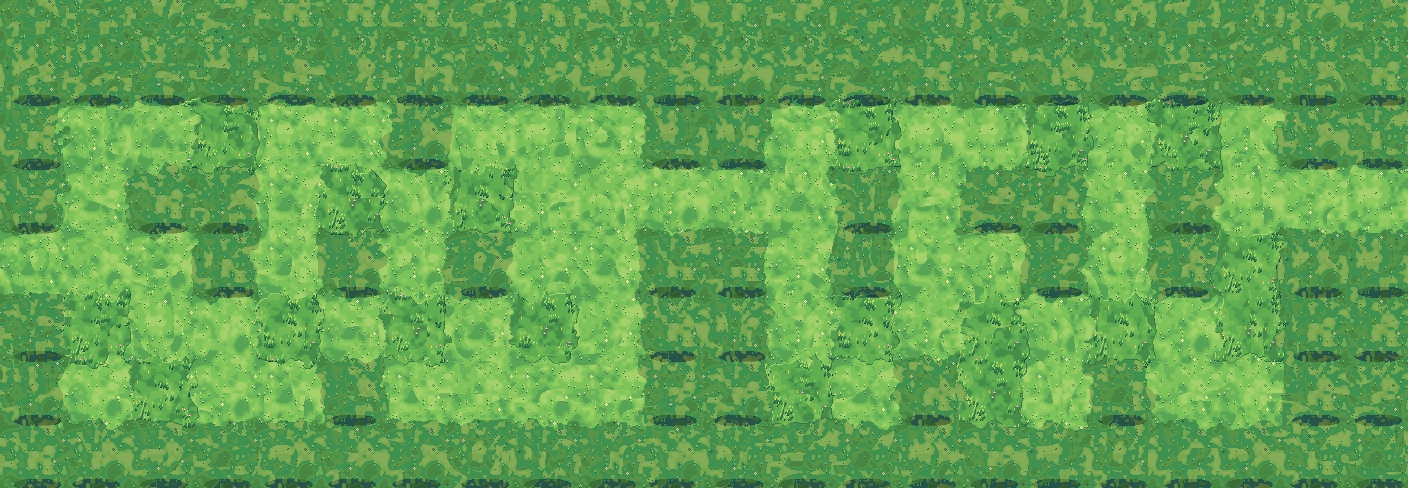
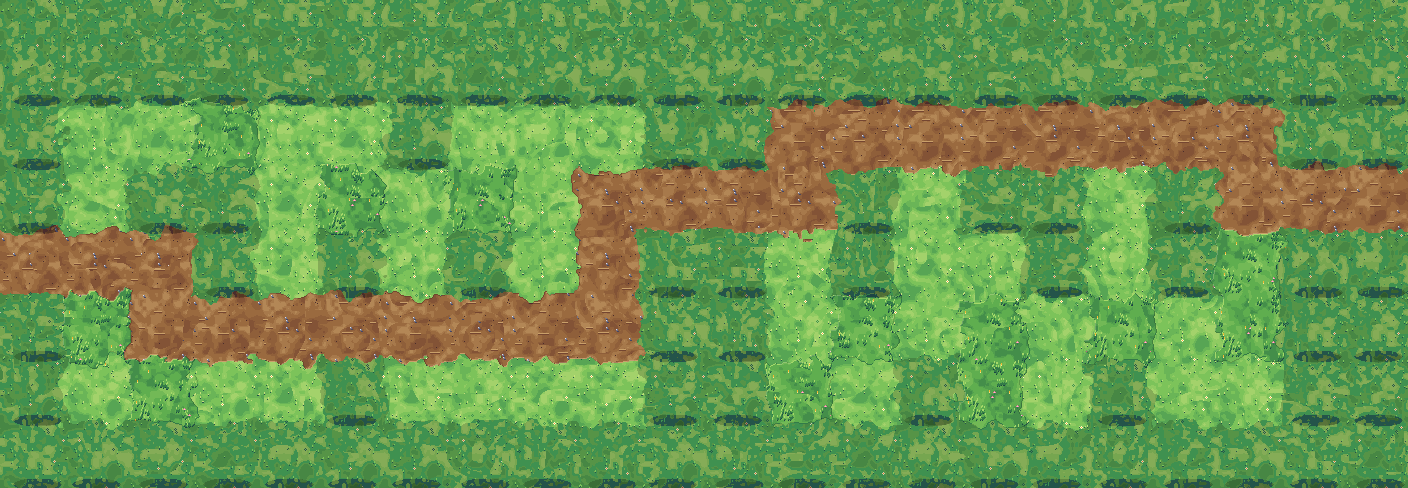
Trail map pilot: worn path and named-feature landmarks on route 228
Adds a 'p' (path) tile type to the terrain layer, six landmark sprites in gen2,
a landmarks data file, and --route=N to bake_trail_art.py. Only route 228 is
re-baked; other routes are unchanged.

Claude-Session: https://claude.ai/code/session_01PZZqg9J4gTioHVim7F5x1u

Changed region(s): [[0.0, 0.1844, 1.0, 0.7684]]

diff --git a/claude/tile-art-v3-proposal/gen2.py b/claude/tile-art-v3-proposal/gen2.py
@@ -164,6 +164,18 @@ def ground(land, kind, seed):
             cv.put(x, y, R[2], True); cv.put(x + 2, y + 3, R[2], True)
     return cv.im
 
+PATH_RAMP = {"grassland": "litter", "forest": "litter", "coast": "sand", "tundra": "snow"}
+def pathtex(land, seed):
+    """Worn path ground ('p' tiles): packed dirt in the land's own colour, ruts and pebbles; tileable like the rest."""
+    rnd = random.Random(f"p2{land}{seed}"); R = RAMP[PATH_RAMP.get(land, "litter")]
+    cv = ground_base(rnd, R, bias=.0)
+    for x, y in spots(rnd, 5):   # cart-rut dashes: lit crest over a shade line
+        n = rnd.randint(6, 12)
+        for k in range(n): cv.put(x + k, y, R[0], True); cv.put(x + k, y + 1, R[2], True)
+    for x, y in spots(rnd, 6): pebble(cv, x, y, RAMP["stone"], rnd, 2)
+    for x, y in spots(rnd, 14): cv.put(x, y, R[3], True)
+    return cv.im
+
 def understory(land, seed):
     rnd = random.Random(f"u2{land}{seed}"); src = ground(land, "floor", seed).copy(); p = src.load()
     for y in range(T):
@@ -324,6 +336,101 @@ def water(land, seed):
             for k in range(9): cv.put(x + k, y + (k * 2 // 3) % 4, R[3], True)
     return cv.im
 
+# ---------------------------------------------------------------- landmarks: one named feature of a route, drawn as a raised sprite (64 x 96, feet near y 88)
+def _col(cv, x0, x1, y0, y1, R, rnd, speck=.08):
+    """Rectangle shaded left (lit) to right (shade), with a little speckle."""
+    for x in range(x0, x1):
+        u = (x - x0) / max(1, x1 - x0 - 1); t = 0 if u < .15 else 1 if u < .4 else 2 if u < .72 else 3
+        for y in range(y0, y1):
+            tt = t
+            if rnd.random() < speck: tt = max(0, min(4, tt + rnd.choice((-1, 1))))
+            cv.put(x, y, R[tt])
+def _pond(cv, cx, cy, rx, ry, rnd, R=None):
+    R = R or r5(RAMP["sea"])
+    for y in range(cy - ry, cy + ry + 1):
+        for x in range(cx - rx, cx + rx + 1):
+            if (x - cx) ** 2 / rx ** 2 + (y - cy) ** 2 / ry ** 2 <= 1:
+                t = 2 if y > cy else 1 if y > cy - ry // 2 else 0
+                if (x * 5 + y * 3) % 9 == 0: t = max(0, t - 1)
+                cv.put(x, y, R[t])
+    for _ in range(4):
+        x, y = rnd.randint(cx - rx + 4, cx + rx - 8), rnd.randint(cy - ry + 2, cy + ry - 2)
+        for k in range(4):
+            if cv.get(x + k, y)[3]: cv.put(x + k, y, R[0])
+def lm_scarecrow(rnd, cv):
+    W = RAMP["wood"]
+    for y in range(36, 90): cv.put(31, y, W[1]); cv.put(32, y, W[2]); cv.put(33, y, W[3])
+    for x in range(12, 53): cv.put(x, 51, W[1]); cv.put(x, 52, W[2]); cv.put(x, 53, W[3])
+    for x0 in (10, 48):   # straw hands
+        for k in range(5): cv.put(x0 + k, 50 + k % 2, RAMP["sand"][k % 3]); cv.put(x0 + k, 54 - k % 3, RAMP["sand"][1 + k % 2])
+    lump(cv, 32, 62, 10, 11, r5(RAMP["sea"]), rnd, .06)
+    for x, y in ((28, 60), (29, 60), (28, 61), (29, 61), (35, 66), (36, 66), (35, 67), (36, 67)):   # patches
+        cv.put(x, y, RAMP["ember"][1]); 
+    cv.put(28, 60, RAMP["ember"][0]); cv.put(35, 66, RAMP["ember"][0])
+    for x in range(22, 43): cv.put(x, 72, RAMP["sand"][1]); cv.put(x, 73, RAMP["sand"][2]) if x % 2 else None   # straw hem
+    lump(cv, 32, 41, 8, 8, r5(RAMP["sand"]), rnd, .08)
+    cv.put(29, 40, INK); cv.put(35, 40, INK); cv.put(29, 41, INK); cv.put(35, 41, INK)
+    for x in range(30, 35): cv.put(x, 46, RAMP["ember"][2]) if x % 2 else cv.put(x, 45, RAMP["ember"][2])
+    for x in range(19, 46):   # hat brim
+        for y in (33, 34): cv.put(x, y, W[1] if y == 33 else W[2])
+    lump(cv, 32, 29, 9, 8, r5(RAMP["wood"]), rnd, .06)
+    for x in range(23, 42): cv.put(x, 32, RAMP["petal"][1])   # ribbon
+    cv.put(40, 31, RAMP["gold"][0]); cv.put(41, 30, RAMP["gold"][1])
+def lm_haybales(rnd, cv):
+    for cx, cy, rx, ry in ((19, 79, 15, 10), (45, 79, 15, 10), (32, 61, 15, 11)):
+        lump(cv, cx, cy, rx, ry, r5(RAMP["gold"]), rnd, .16)
+        for k in (-8, -2, 5):   # twine
+            for y in range(cy - ry + 1, cy + ry):
+                if cv.get(cx + k, y)[3] and cv.get(cx + k, y) != INK: cv.put(cx + k, y, RAMP["wood"][2] if y % 2 else RAMP["wood"][1])
+        for _ in range(14):   # straw ends
+            x, y = rnd.randint(cx - rx + 2, cx + rx - 2), rnd.randint(cy - ry + 2, cy + ry - 2)
+            if cv.get(x, y)[3] and cv.get(x, y) != INK: cv.put(x, y, RAMP["gold"][0]); cv.put(x + 1, y + 1, RAMP["gold"][3])
+def lm_ford(rnd, cv):
+    _pond(cv, 32, 80, 30, 9, rnd)
+    for cx, cy in ((14, 78), (32, 83), (50, 77)):
+        lump(cv, cx, cy, 7, 4, r5(RAMP["stone"]), rnd, .1)
+        for k in range(-6, 7):   # foam ring
+            if cv.get(cx + k, cy + 5)[3] == 0 or cv.get(cx + k, cy + 5) in r5(RAMP["sea"]): cv.put(cx + k, cy + 5, CREAM)
+def lm_pondmill(rnd, cv):
+    _pond(cv, 24, 82, 22, 8, rnd)
+    W, C = r5(RAMP["wood"]), r5(RAMP["sand"])
+    _col(cv, 36, 58, 56, 86, C, rnd)
+    for y in range(40, 56):   # roof
+        hw = (y - 40) * 11 // 15 + 2
+        for x in range(47 - hw, 47 + hw + 1): cv.put(x, y, RAMP["ember"][0 if x < 44 else 1 if x < 50 else 2] if (y + x) % 7 else RAMP["ember"][3])
+    for y in range(70, 86): cv.put(46, y, W[3]); cv.put(47, y, W[3]); cv.put(48, y, W[3]); cv.put(49, y, W[2])   # door
+    for y in range(62, 67):
+        for x in range(40, 44): cv.put(x, y, RAMP["sea"][0] if y == 62 else RAMP["sea"][2])
+    for a in range(0, 360, 45):   # wheel
+        for r in range(0, 9): cv.put(30 + int(round(math.cos(math.radians(a)) * r)), 76 + int(round(math.sin(math.radians(a)) * r)), W[1] if a % 90 == 0 else W[2])
+    for a in range(0, 360, 12): cv.put(30 + int(round(math.cos(math.radians(a)) * 9)), 76 + int(round(math.sin(math.radians(a)) * 9)), W[3])
+    cv.put(30, 76, RAMP["gold"][1])
+def lm_apple(rnd, cv):
+    c = tree(2, "leaf"); cv.im.alpha_composite(c); cv.p = cv.im.load()
+    for _ in range(40):   # big red apples on the crown, so it reads as the apple tree and not one more tree
+        if sum(1 for q in cv.im.getdata() if q == RAMP["ember"][1]) > 14 * 6: break
+        x, y = rnd.randrange(12, 50), rnd.randrange(20, 60)
+        if all(cv.get(x + dx, y + dy)[3] and cv.get(x + dx, y + dy) != INK and cv.get(x + dx, y + dy) not in RAMP["wood"] for dx in range(3) for dy in range(3)):
+            for dx in range(3):
+                for dy in range(3): cv.put(x + dx, y + dy, RAMP["ember"][1] if dx + dy < 3 else RAMP["ember"][2])
+            cv.put(x, y, RAMP["ember"][0]); cv.put(x + 1, y - 1, RAMP["moss"][1])
+    for a in range(0, 360, 36):   # ring of clover round the foot
+        x, y = 32 + int(round(math.cos(math.radians(a)) * 26)), 87 + int(round(math.sin(math.radians(a)) * 5))
+        for dx, dy in ((0, 0), (1, 0), (-1, 0), (0, 1), (0, -1)): cv.put(x + dx, y + dy, RAMP["moss"][2] if (dx or dy) else RAMP["moss"][1])
+        if a % 72 == 0: cv.put(x, y, CREAM)
+    for k in range(4):   # fallen apples
+        x = 22 + k * 7; cv.put(x, 90, RAMP["ember"][1]); cv.put(x + 1, 90, RAMP["ember"][2])
+def lm_hedgerow(rnd, cv):
+    c = hedge(1); cv.im.alpha_composite(c); cv.p = cv.im.load()
+    for cx, cy, rx, ry in ((16, 52, 8, 9), (47, 55, 7, 7)):   # trimmed topiary, with strong opinions
+        lump(cv, cx, cy, rx, ry, r5(RAMP["moss"]), rnd, .1)
+        for y in range(cy + ry, 64): cv.put(cx, y, RAMP["wood"][2]); cv.put(cx + 1, y, RAMP["wood"][3])
+    cv.put(13, 50, INK); cv.put(18, 50, INK); cv.put(13, 51, CREAM); cv.put(18, 51, CREAM)   # a face on the big one
+    for x in range(14, 18): cv.put(x, 55, RAMP["ember"][2])
+LANDMARKS = {"scarecrow": lm_scarecrow, "haybales": lm_haybales, "ford": lm_ford, "pondmill": lm_pondmill, "apple": lm_apple, "hedgerow": lm_hedgerow}
+def landmark(name):
+    cv = Cv(T, OBJ_H); LANDMARKS[name](random.Random(f"lm{name}"), cv); outline(cv); return cv.im
+
 # ---------------------------------------------------------------- find spots (open / done) and the search icon
 def sparkle(cv, x, y, big=True):
     for dx, dy in ((0, 0), (1, 0), (-1, 0), (0, 1), (0, -1)): cv.put(x + dx, y + dy, CREAM)
@@ -482,7 +589,7 @@ def terrain_layer(land, types, seed=0, blend=True):
         v = int(nv(x, y) * 4.4) % 4   # which texture variant: big organic patches, so variants never meet on a tile line
         k = (t, v if t != "r" else v % 2, (tx * 3 + ty) % 3 if t == "w" else 0)
         if k not in tex:
-            im = understory(land, v) if t == "u" else ground(land, "rough", v % 2) if t == "r" else water(land, k[2]) if t == "w" else ground(land, "floor", v)
+            im = understory(land, v) if t == "u" else ground(land, "rough", v % 2) if t == "r" else water(land, k[2]) if t == "w" else pathtex(land, v % 2) if t == "p" else ground(land, "floor", v)
             tex[k] = im.load()
         return tex[k]
     def tp(x, y):
@@ -503,8 +610,11 @@ def terrain_layer(land, types, seed=0, blend=True):
             t = TM[y][x]
             def at(a, b): return TM[min(max(b, 0), th - 1)][min(max(a, 0), tw - 1)]
             if t == "r":
-                if at(x, y + 1) in "fuw" or at(x + 1, y) in "fuw": P[x, y] = darker(P[x, y], 1)
-                elif at(x, y - 1) in "fu" or at(x - 1, y) in "fu": P[x, y] = lighter(P[x, y])
+                if at(x, y + 1) in "fupw" or at(x + 1, y) in "fupw": P[x, y] = darker(P[x, y], 1)
+                elif at(x, y - 1) in "fup" or at(x - 1, y) in "fup": P[x, y] = lighter(P[x, y])
+            elif t == "p":   # a worn path sits a little lower than the grass: shade on its lit side, grass lip on the far side
+                if at(x, y - 1) not in "pu" or at(x - 1, y) not in "pu": P[x, y] = darker(P[x, y], 1)
+                elif at(x, y + 1) not in "pu" or at(x + 1, y) not in "pu": P[x, y] = lighter(P[x, y])
             elif t == "w":
                 if land == "coast":
                     if at(x, y + 1) != "w": P[x, y] = CREAM

diff --git a/tools/bake_trail_art.py b/tools/bake_trail_art.py
@@ -8,6 +8,9 @@ Output  game/assets/img/trail/ground/<route>-<section>.png   one blended ground 
         game/assets/img/trail/find-<art land>[-done].png     find spots, 64x64;   gnome.png  the player idle frame, 64x80
         game/includes/data/trail_maps.json                   rows + object list per section, read by includes/trail_art.php. MERGED into the
                                                              routes already in it (re-baking one region keeps the others); --fresh starts empty
+        --route=N  (repeatable) bake only route N and re-bake it even if its pictures exist; the other routes in trail_maps.json are kept
+Landmarks  claude/maplewold-trail-maps/maplewold_landmarks.json: {route_id: [[ [x, y, name, jitter] per feature ] per section]}. A route listed there also
+        gets a worn path (tile type 'p') from the S to the exit; each landmark is a raised sprite obj/lm-<name>.png (drawn by gen2.LANDMARKS).
 Options --check   validate only (shape, characters, a walkable path in every section, continuity between sections), write nothing, exit 1 on a problem
         --all     re-bake routes that already have all their pictures (default: only new or incomplete routes)
         --fresh   start trail_maps.json empty instead of merging
@@ -31,6 +34,7 @@ ART_LAND = {"grassland": "grassland", "forest": "forest", "coast": "coast", "tun
 LIST = os.path.join(REPO, "claude", "route-list.md")
 DATA = os.path.join(REPO, "game", "includes", "data", "trail_maps.json")
 DEFAULT_MAPS = os.path.join(REPO, "claude/maplewold-trail-maps/maplewold_trail_maps_22wide.json")
+LANDMARKS = os.path.join(REPO, "claude/maplewold-trail-maps/maplewold_landmarks.json")   # routes listed here get a worn path and one raised landmark per named feature
 
 def boss_of(rid):
     """'miniboss' when the route list says one end is a delve, 'boss' for a lair (only used when the last section has an E), else ''."""
@@ -94,6 +98,7 @@ def spec(land, x, y, seed):
     return f"pine-{h % 6}" if h % 5 else f"boulder-snow-{h % 4}"
 def build_obj(key):
     p = key.split("-")
+    if p[0] == "lm": return gen2.landmark(p[1])
     if p[0] == "tree": return gen2.tree(int(p[2]), p[1])
     if p[0] == "bush": return gen2.bush(int(p[1]))
     if p[0] == "hedge": return gen2.hedge(int(p[1]))
@@ -110,11 +115,27 @@ def flat_set(land, rows):
             if land == "tundra" and 1 <= x <= W - 2 and 1 <= y <= 5 and ((rows[y][x-1] == "#" and x - 1 > 0) or (rows[y][x+1] == "#" and x + 1 < W - 1)): out.add((x, y))
     return out
 
+def path_cells(rows):
+    """Cells of the shortest walk from the entry (S, or the first open cell on the left edge) to the exit (9), as a set of (x, y)."""
+    W, Hh = len(rows[0]), len(rows)
+    st = next(((x, y) for y, r in enumerate(rows) for x, c in enumerate(r) if c == "S"), None) or next((0, y) for y in range(Hh) if rows[y][0] != "#")
+    en = next((W - 1, y) for y in range(Hh) if rows[y][-1] == "9")
+    prev, q = {st: None}, deque([st])
+    while q:
+        c = q.popleft()
+        if c == en: break
+        for dx, dy in ((1, 0), (-1, 0), (0, 1), (0, -1)):
+            n = (c[0] + dx, c[1] + dy)
+            if 0 <= n[0] < W and 0 <= n[1] < Hh and rows[n[1]][n[0]] != "#" and n not in prev: prev[n] = c; q.append(n)
+    out, c = set(), en
+    while c is not None: out.add(c); c = prev[c]
+    return out
+
 def bake(job):
-    rid, si, land, rows = job   # land = the ART land (ART_LAND), the one the drawing code knows
+    rid, si, land, rows, path, lms = job   # land = the ART land (ART_LAND), the one the drawing code knows; path = set of (x, y) or None; lms = landmark objs
     W, Hh = len(rows[0]), len(rows); tw, th = W * T, Hh * T + PAD
     flat = flat_set(land, rows)
-    types = ["".join("w" if (x, y) in flat else "u" if c == "#" else "r" if c == "," else "f" for x, c in enumerate(r)) for y, r in enumerate(rows)]
+    types = ["".join("w" if (x, y) in flat else "u" if c == "#" else "p" if path and (x, y) in path else "r" if c == "," else "f" for x, c in enumerate(r)) for y, r in enumerate(rows)]
     plain = None
     ter = gen2.terrain_layer(land, [types[0].replace("w", "u")] + types, rid, True)
     base = Image.new("RGBA", (tw, th)); base.paste(ter.crop((0, T - PAD, tw, T - PAD + th)), (0, 0))
@@ -128,31 +149,35 @@ def bake(job):
             objs.append([x, y, spec(land, x, y, rid), jit])
     q = base.convert("RGB").quantize(256, method=Image.Quantize.MEDIANCUT, dither=Image.Dither.NONE)
     path = os.path.join(IMG, "ground", f"{rid}-{si + 1}.png"); q.save(path, optimize=True)
-    return rid, si, objs
+    return rid, si, objs + [list(o) for o in lms]
 
 def main():
     args = [a for a in sys.argv[1:] if not a.startswith("--")]
+    only = {int(a.split("=")[1]) for a in sys.argv[1:] if a.startswith("--route=")}
     entries = load_routes(args or [DEFAULT_MAPS])
+    lm_data = json.load(open(LANDMARKS, encoding="utf-8")) if os.path.isfile(LANDMARKS) else {}
     bad = 0
     for f, r in entries:
         for msg in check_route(r) + ([] if r.get("land") in ART_LAND else [f"land {r.get('land')!r} is not in ART_LAND"]):
             print(f"PROBLEM {os.path.basename(f)} route {r.get('route_id')}: {msg}"); bad += 1
     print(f"{len(entries)} routes, {sum(len(r['sections']) for _, r in entries)} sections, {bad} problems")
     if CHECK_ONLY or bad: return 1 if bad else 0
-    routes = [r for _, r in entries]
+    routes = [r for _, r in entries if not only or int(r["route_id"]) in only]
     for d in ("ground", "obj"): os.makedirs(os.path.join(IMG, d), exist_ok=True)
     have = {} if "--fresh" in sys.argv else (json.load(open(DATA)).get("routes", {}) if os.path.isfile(DATA) else {})
     out, jobs = dict(have), []
     for r in routes:
         rid, land = int(r["route_id"]), r["land"]; art = ART_LAND[land]
         done = str(rid) in have and all(os.path.isfile(os.path.join(IMG, "ground", f"{rid}-{i + 1}.png")) for i in range(len(r["sections"]))) and len(have[str(rid)]["sections"]) == len(r["sections"])
-        if done and "--all" not in sys.argv: print("kept", rid); continue
+        if done and "--all" not in sys.argv and rid not in only: print("kept", rid); continue
         secs = []
         for si, s in enumerate(r["sections"]):
             rows = list(s["rows"]); ey = [y for y in range(len(rows)) if rows[y][0] != "#"][0]
             rows[ey] = "S" + rows[ey][1:]   # every section starts at an S on the left edge (section 1 already has one)
             secs.append({"feature": s["feature"], "caption": s["caption"], "rows": rows, "objs": []})
-            jobs.append((rid, si, art, [w.replace("S", ".").replace("9", ".").replace("E", ".").replace("F", ".") for w in rows]))
+            lm = lm_data.get(str(rid))
+            jobs.append((rid, si, art, [w.replace("S", ".").replace("9", ".").replace("E", ".").replace("F", ".") for w in rows],
+                         path_cells(rows) if lm else None, [[x, y, "lm-" + n, j] for x, y, n, j in (lm[si] if lm and si < len(lm) else [])]))
         out[str(rid)] = {"land": land, "art": art, "from": r["from"], "to": r["to"], "boss": boss_of(rid), "sections": secs}
     with Pool(max(1, os.cpu_count() or 1)) as pool:
         for rid, si, objs in pool.imap_unordered(bake, jobs): out[str(rid)]["sections"][si]["objs"] = objs; print("baked", rid, si + 1, flush=True)

diff --git a/CHANGELOG.md b/CHANGELOG.md
@@ -1,5 +1,8 @@
 # Changelog
 
+## Unreleased
+- **Trail map pilot (route 228, Market to Poppyburrow)**: a worn dirt path now runs from the entry to the exit in each section, and each named feature is a raised landmark sprite (scarecrow, hay bales, stepping-stone ford, mill pond, apple tree, hedge-row topiary). Driven by `claude/maplewold-trail-maps/maplewold_landmarks.json`; `tools/bake_trail_art.py --route=N` re-bakes one route. Other routes are unchanged.
+
 ## 2.5.62
 - **Art polish pass**: 37 wonder pictures redrawn richer (pink river dolphins, animals, havens, delves), 7 banners, journal sea/nwe/oc, world map, trek me + ripples, vig-rod/pick, slot-forage. **Fix**: rarity flourishes are 4-frame 96px sparkle sheets again (2.5.60 had drawn them as bands).
 
